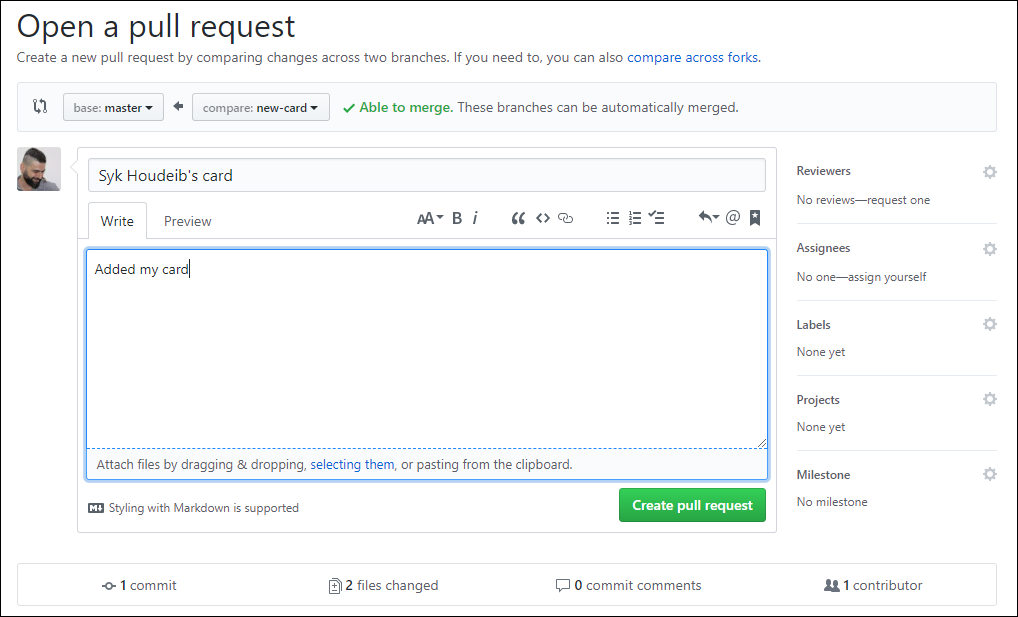
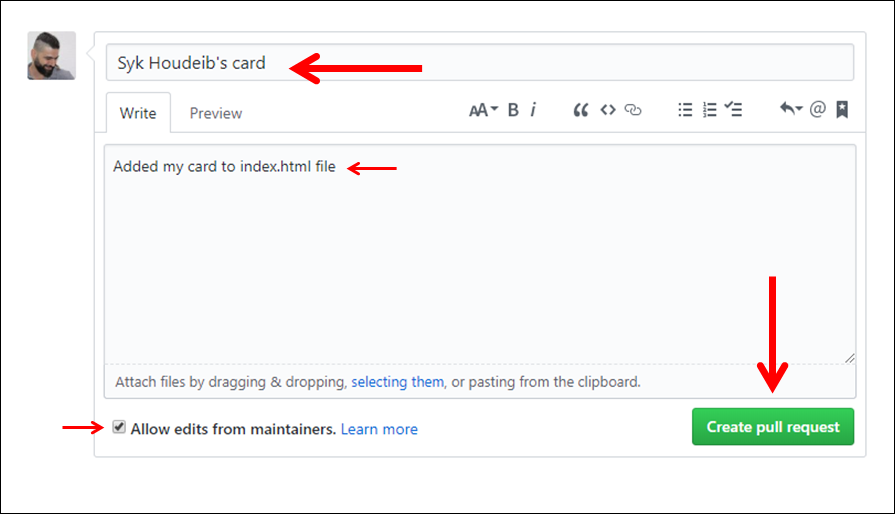
Improved step 9 PR

diff --git a/README.md b/README.md
@@ -186,14 +186,16 @@ _Estimated time: Less than 30 minutes_.
 + So far all the work you have done has been on the fork of the project, which as you remember resides on your own account of GitHub.
 + Now it's time to send your changes to the main project to be merged with it.
 + This is called a [_Pull Request_](https://help.github.com/articles/about-pull-requests/ "About Pull Requests - GitHub Help") because you are asking the original project maintainer to "pull" your changes into their project.
-+ REMEMBER _you are trying to merge your branch with the original project not with the `Master` branch on your fork_.
 + Go to the main page of **your fork** on GitHub (it will have the fork icon and your own user name at the top).
-+ Towards the top of the page you will see a highlighted pull request message with a green button.
++ Towards the top of the repo you will see a highlighted pull request message with a green button.
 
 | <ul><li>Click on the `Compare and pull request`</li></ul> | ![Submit a Pull Request](readme-only/pull-request.PNG "Click the green button. Don't be scared!") |
 |:---|---:|
 
-+ Your message is not going to look exactly like the image above because your are merging from your branch on your fork to the original project's master branch.
+| <ul><li>This is the `Open a pull request` page looks like.</li><li>REMEMBER _you are trying to merge your branch with the original project not with the `Master` branch on your fork_.</li><li>The image below gives you an idea of how the header of your pull request should look like.</li><li>On the left is the original project, followed by the master branch. On the right is your fork and the branch you created.</li></ul> |
+|:------|
+| ![Open a Pull Request](readme-only/pull-request-branches.PNG "You are requesting to merge your branch from your fork into the master branch of the original project") |
+
 
 | <ul><li>Create a pull request:</li><li>Write a title</li><li>Add optional information in the description</li><li>Click `Create pull request`</li></ul> | ![Submit a Pull Request](readme-only/pull-request-open.PNG "Click the green button. Don't be scared!") |
 |:---|---:|
